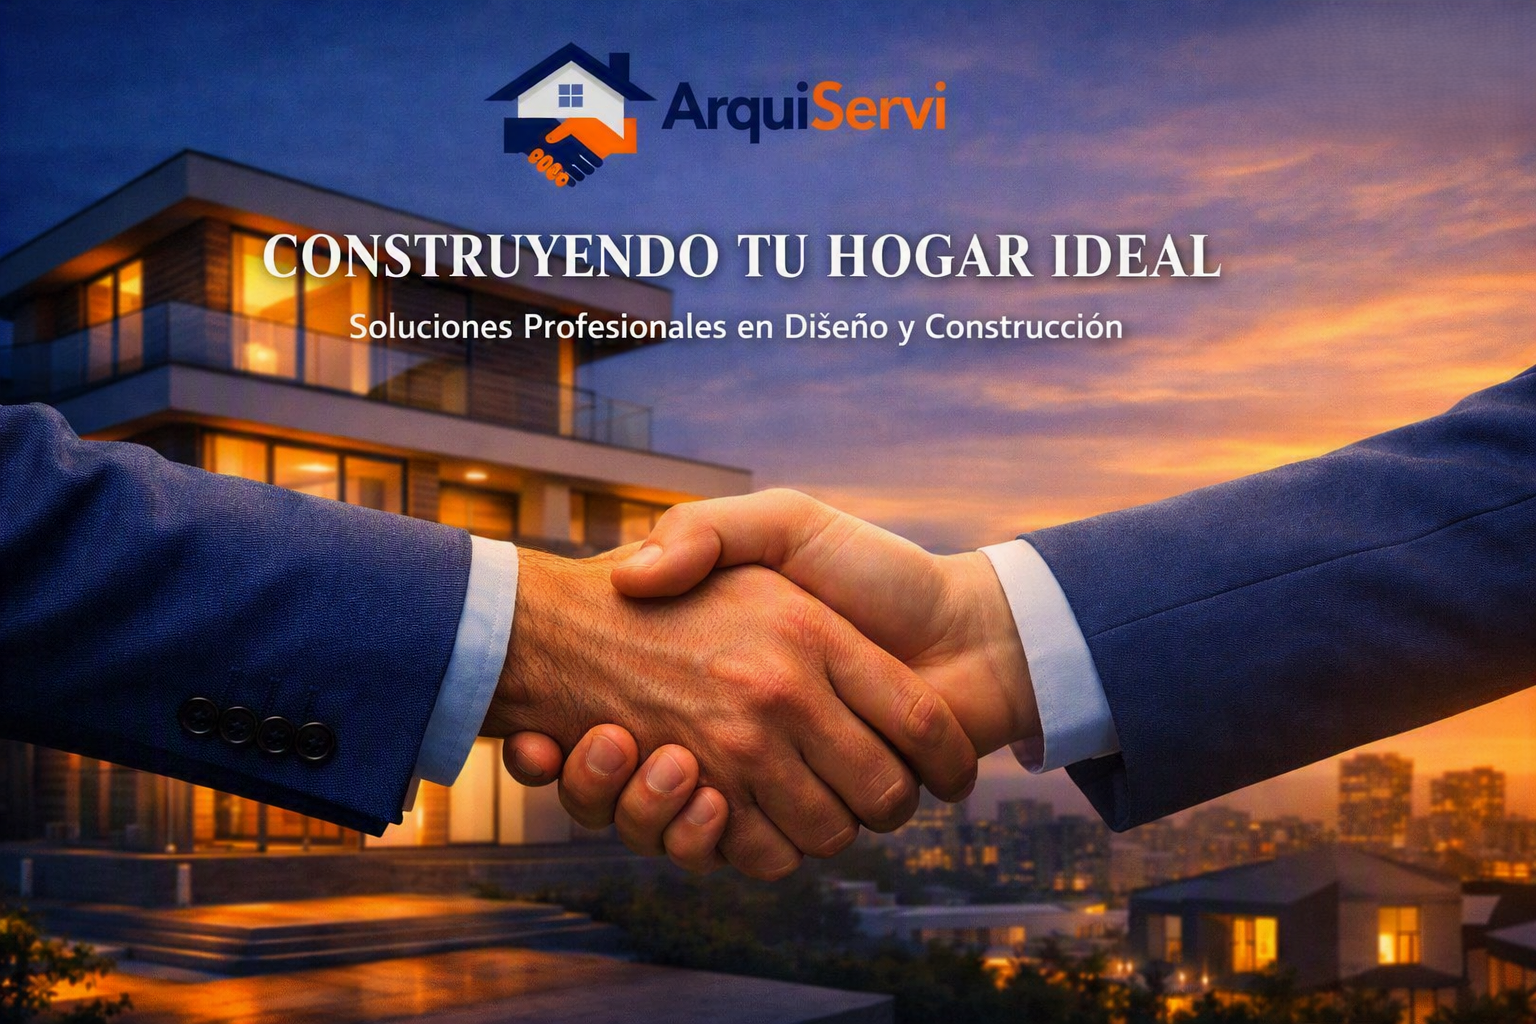
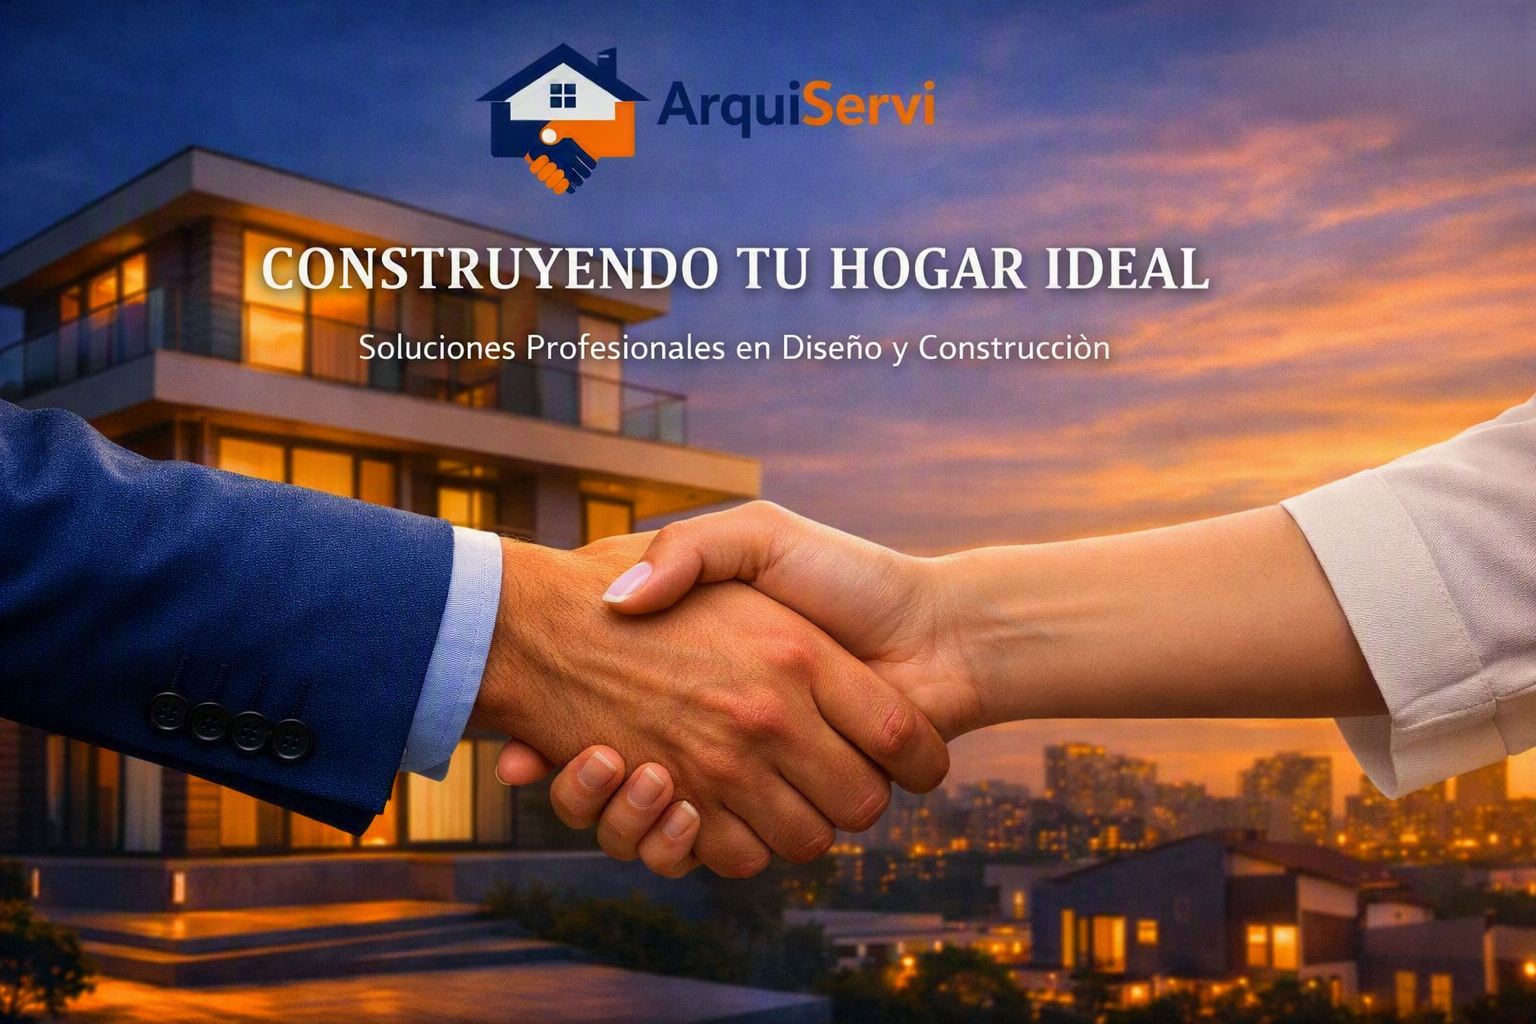
Style: Acomodo de bloques de información en la página de inicio

diff --git a/public/css/menu.css b/public/css/menu.css
@@ -455,6 +455,67 @@ main {
     border-radius: 10px;
 }
 
+.subtitulo {
+    font-family: 'Libre Baskeville';
+    font-size: 28px;
+    color: #F47A20;
+    transition: color 0.3s ease, text-shadow 0.3s ease;
+}
+
+.subtitulo:hover {
+    color: #1E40AF; /* cambia el color */
+    text-shadow: 0 0 8px rgba(244, 122, 32, 0.5); /* brillo suave */
+}
+
+.parrafo {
+    font-family: Poppins;
+    font-size: 18px;
+    color: #333333;
+    transition: transform 0.3s ease, box-shadow 0.3s ease;
+}
+
+.parrafo:hover {
+    transform: scale(1.05);
+    box-shadow: 0 8px 20px rgba(0, 0, 0, 0.2);
+    background-color: transparent;
+}
+
+.info-arquiservi {
+    margin: 5% 10%;
+    display: flex;
+    flex-direction: column;
+    gap: 3rem;
+}
+
+.bloque-contenido {
+    display: flex;
+    align-items: center;
+    justify-content: space-between;
+    gap: 2rem;
+}
+
+.bloque-texto {
+    flex: 1;
+}
+
+.bloque-imagen {
+    flex: 1;
+    display: flex;
+    justify-content: center;
+}
+
+.bloque-imagen img {
+    max-width: 100%;
+    height: auto;
+    border-radius: 10px;
+    transition: transform 0.3s ease, box-shadow 0.3s ease;
+}
+
+.bloque-imagen img:hover {
+    transform: scale(1.05);
+    box-shadow: 0 8px 20px rgba(0, 0, 0, 0.2);
+}
+
 /* PIE DE PÁGINA */
 .pie {
     width: 100%;
@@ -555,7 +616,33 @@ main {
     .bienvenida {
         padding: 0 15px;
     }
+
+    .bloque-contenido {
+        flex-direction: column; /* apila texto e imagen */
+        text-align: center;     /* centra el texto */
+    }
+
+    .bloque-imagen {
+        margin-top: 1rem;       /* separa la imagen del texto */
+    }
+
+    .bloque-imagen img {
+        width: 90%;             /* evita que se vea muy pequeña */
+        max-width: 400px;
+    }
+
 }
+
+@media (max-width: 768px) {
+    .bloque-contenido {
+        flex-direction: column;
+    }
+
+    .bloque.alterno .bloque-contenido {
+    flex-direction: column-reverse; /* invierte el orden en los alternos */
+    }
+}
+
 
 /* CELULARES PEQUEÑOS */
 @media (max-width: 480px) {

diff --git a/resources/views/menu.blade.php b/resources/views/menu.blade.php
@@ -119,6 +119,86 @@
         </section>
     </section>
 
+    <section class="info-arquiservi">
+        <!-- Bloque 1 -->
+        <div class="bloque">
+        <div class="bloque-contenido">
+            <div class="bloque-texto">
+            <h3 class="subtitulo">¿Qué es ArquiServi?</h3>
+            <p class="parrafo">Lorem ipsum dolor sit amet, consectetur adipiscing elit, sed do eiusmod tempor incididunt ut labore et dolore magna aliqua.  Ut enim ad minim veniam, quis nostrud exercitation ullamco laboris nisi ut aliquip ex ea commodo consequat. Duis aute irure dolor in reprehenderit in voluptate velit esse cillum dolore eu fugiat nulla pariatur. Excepteur sint occaecat cupidatat non proident, sunt in culpa qui officia deserunt mollit anim id est laborum.</p>
+            </div>
+            <div class="bloque-imagen">
+            <img src="{{ asset('prueba.png') }}" alt="¿Qué es ArquiServi?">
+            </div>
+        </div>
+        </div>
+
+        <!-- Bloque 2 -->
+        <div class="bloque alterno">
+        <div class="bloque-contenido">
+            <div class="bloque-imagen">
+            <img src="{{ asset('prueba.png') }}" alt="Finalidad de ArquiServi">
+            </div>
+            <div class="bloque-texto">
+            <h3 class="subtitulo">Finalidad</h3>
+            <p class="parrafo">Lorem ipsum dolor sit amet, consectetur adipiscing elit, sed do eiusmod tempor incididunt ut labore et dolore magna aliqua.  Ut enim ad minim veniam, quis nostrud exercitation ullamco laboris nisi ut aliquip ex ea commodo consequat. Duis aute irure dolor in reprehenderit in voluptate velit esse cillum dolore eu fugiat nulla pariatur. Excepteur sint occaecat cupidatat non proident, sunt in culpa qui officia deserunt mollit anim id est laborum.</p>
+            </div>
+        </div>
+        </div>
+
+        <!-- Bloque 3 -->
+        <div class="bloque">
+        <div class="bloque-contenido">
+            <div class="bloque-texto">
+            <h3 class="subtitulo">Misión</h3>
+            <p class="parrafo">Lorem ipsum dolor sit amet, consectetur adipiscing elit, sed do eiusmod tempor incididunt ut labore et dolore magna aliqua.  Ut enim ad minim veniam, quis nostrud exercitation ullamco laboris nisi ut aliquip ex ea commodo consequat. Duis aute irure dolor in reprehenderit in voluptate velit esse cillum dolore eu fugiat nulla pariatur. Excepteur sint occaecat cupidatat non proident, sunt in culpa qui officia deserunt mollit anim id est laborum.</p>
+            </div>
+            <div class="bloque-imagen">
+            <img src="{{ asset('prueba.png') }}" alt="Misión de ArquiServi">
+            </div>
+        </div>
+        </div>
+
+        <!-- Bloque 4 -->
+        <div class="bloque alterno">
+        <div class="bloque-contenido">
+            <div class="bloque-imagen">
+            <img src="{{ asset('prueba.png') }}" alt="Visión de ArquiServi">
+            </div>
+            <div class="bloque-texto">
+            <h3 class="subtitulo">Visión</h3>
+            <p class="parrafo">Lorem ipsum dolor sit amet, consectetur adipiscing elit, sed do eiusmod tempor incididunt ut labore et dolore magna aliqua.  Ut enim ad minim veniam, quis nostrud exercitation ullamco laboris nisi ut aliquip ex ea commodo consequat. Duis aute irure dolor in reprehenderit in voluptate velit esse cillum dolore eu fugiat nulla pariatur. Excepteur sint occaecat cupidatat non proident, sunt in culpa qui officia deserunt mollit anim id est laborum.</p>
+            </div>
+        </div>
+        </div>
+
+        <!-- Bloque 5 -->
+        <div class="bloque">
+        <div class="bloque-contenido">
+            <div class="bloque-texto">
+            <h3 class="subtitulo">Valores</h3>
+            <p class="parrafo">Lorem ipsum dolor sit amet, consectetur adipiscing elit, sed do eiusmod tempor incididunt ut labore et dolore magna aliqua.  Ut enim ad minim veniam, quis nostrud exercitation ullamco laboris nisi ut aliquip ex ea commodo consequat. Duis aute irure dolor in reprehenderit in voluptate velit esse cillum dolore eu fugiat nulla pariatur. Excepteur sint occaecat cupidatat non proident, sunt in culpa qui officia deserunt mollit anim id est laborum.</p>
+            </div>
+            <div class="bloque-imagen">
+            <img src="{{ asset('prueba.png') }}" alt="Valores de ArquiServi">
+            </div>
+        </div>
+        </div>
+
+        <!-- Bloque 6 -->
+        <div class="bloque alterno">
+        <div class="bloque-contenido">
+            <div class="bloque-imagen">
+            <img src="{{ asset('prueba.png') }}" alt="¿Por qué elegirnos?">
+            </div>
+            <div class="bloque-texto">
+            <h3 class="subtitulo">¿Por qué elegirnos?</h3>
+            <p class="parrafo">Lorem ipsum dolor sit amet, consectetur adipiscing elit, sed do eiusmod tempor incididunt ut labore et dolore magna aliqua.  Ut enim ad minim veniam, quis nostrud exercitation ullamco laboris nisi ut aliquip ex ea commodo consequat. Duis aute irure dolor in reprehenderit in voluptate velit esse cillum dolore eu fugiat nulla pariatur. Excepteur sint occaecat cupidatat non proident, sunt in culpa qui officia deserunt mollit anim id est laborum.</p>
+            </div>
+        </div>
+        </div>
+</section>
+
 
 </body>
 
